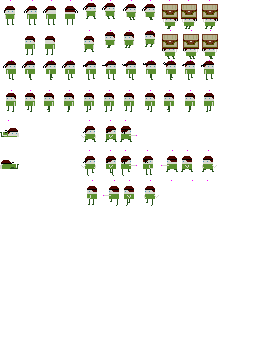
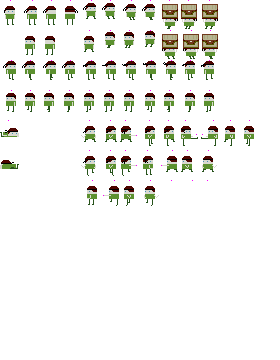
Jake's kick added

Changed region(s): [[0.5143, 0.3361, 0.9143, 0.3972]]

diff --git a/actor.py b/actor.py
@@ -27,6 +27,8 @@ class Actor(Entity):
         self.ai_input_attack = False
         self.ai_input_jump = False
         self.next_ranged_weapon_usage_counter = 0
+        self.previously_used_weapon = ''
+        self.force_use_previous_weapon = False
 
         self.acceleration = .5
         self.air_acceleration = .4
@@ -247,13 +249,16 @@ class Actor(Entity):
                 # print(f'{self.current_weapon["label"]=}')
                 if self.current_weapon['label'] == self.inventory["weapons"][all_weapons[uuid]]["item"]["label"]:
                     return
+                self.previously_used_weapon = self.current_weapon['label']
             self.body['right hand']['weapon'] = self.inventory['weapons'][all_weapons[uuid]]
             # self.body['right hand']['weapon'] = self.inventory['weapons'][all_weapons[0]]
         else:
             if self.current_weapon:
                 if self.current_weapon['label'] == self.inventory["weapons"][uuid]["item"]["label"]:
                     return
+                self.previously_used_weapon = self.current_weapon['label']
             self.body['right hand']['weapon'] = self.inventory['weapons'][uuid]
+
 
         self.current_weapon = self.body['right hand']['weapon']['item']
         # print('------------------------------')
@@ -485,11 +490,17 @@ class Actor(Entity):
             # self.movement_direction_inverter = 1
 
         elif new_action == 'attack':
-            if self.stats['stamina'] <= self.current_stamina_lost_per_attack \
-                    or self.stats['mana'] <= self.current_mana_lost_per_attack:
+            if self.stats['stamina'] <= self.current_stamina_lost_per_attack:
+                print(f'[state machine] NOT ENOUGH STAMINA')
+                if self.name == 'Jake':
+                    self.set_state('prepare kick')
                 return
-            if self.__state not in ('free', 'stand still', 'run right', 'run left', 'stand still', 'jump', 'crawl right', 'crawl left', \
-                                    'crouch', 'fly right', 'fly left'):
+            if self.stats['mana'] <= self.current_mana_lost_per_attack:
+                print(f'[state machine] NOT ENOUGH MANA')
+                return
+            if self.__state not in ('free', 'stand still', 'run right', 'run left',
+                                    'stand still', 'jump', 'crawl right', 'crawl left',
+                                    'crouch', 'fly right', 'fly left', 'turn right', 'turn left'):
                 return
             if self.__state in ('crawl left', 'crouch', 'crawl right'):
                 if self.look == 1:
@@ -515,6 +526,22 @@ class Actor(Entity):
         elif self.__state == 'carry stash left':  #
             self.speed = self.max_speed // 3
             self.look = -1
+        elif self.__state == 'prepare kick':                          # PREPARING kick ATTACK
+            self.activate_weapon('jake kick')
+            self.set_state('prepare attack')
+            self.force_use_previous_weapon = True
+            # if self.look == 1:
+            #     self.set_state('kick right')
+            # else:
+            #     self.set_state('kick left')
+            # self.set_state(self.current_weapon['attack animation'])
+            # self.stamina_reduce(self.current_stamina_lost_per_attack)
+            # self.mana_reduce(self.current_mana_lost_per_attack)
+            # self.frames_changing_threshold_modifier = self.current_weapon['animation speed modifier']
+            # self.set_current_animation()
+            # self.ignore_user_input = self.current_weapon['ignore user input']
+            # if self.is_stand_on_ground:
+            #     self.heading[0] = 0
         elif self.__state == 'prepare attack':                          # PREPARING ATTACK
             self.set_state(self.current_weapon['attack animation'])
             self.stamina_reduce(self.current_stamina_lost_per_attack)
@@ -542,9 +569,13 @@ class Actor(Entity):
             self.ignore_user_input = self.current_weapon['ignore user input']
             if self.is_stand_on_ground:
                 self.heading[0] = 0
-        elif self.__state in ('stab', 'cast', 'whip', 'whip crouch right', 'whip crouch left'):                          # ATTACKING IN PROCESS...
+        elif self.__state in ('stab', 'cast', 'whip', 'whip crouch right', 'whip crouch left',
+                              'kick'):                          # ATTACKING IN PROCESS...
             if self.animation_sequence_done:
                 self.ignore_user_input = False
+                if self.force_use_previous_weapon:
+                    self.force_use_previous_weapon = False
+                    self.activate_weapon(self.previously_used_weapon)
                 if self.__state in ('whip crouch right', 'whip crouch left'):
                     self.set_state('crouch')
                 else:
@@ -742,11 +773,6 @@ class Actor(Entity):
                 self.look = -1
                 self.heading[0] = -1
                 self.set_state('stand still')
-
-            # self.is_move_left = True
-            # self.look = -1
-            # print('jj')
-            # self.set_state('stand still')
         elif self.__state == 'turn right':                      # TURN RIGHT
             if self.look == -1 and self.speed > 0:  # Actor looks to the other side and runs.
                 # Switch off heading to force actor start reducing his speed and slow it down to zero.

diff --git a/actors_description.py b/actors_description.py
@@ -719,8 +719,8 @@ player_jake = {
             'hardness': 100
         },
     },
-    'max speed': 6,
-    'items': (whip,demon_2_close),
+    'max speed': 8,
+    'items': (whip,jake_kick),
     # 'items': (whip,fireball_staff,sword,kitchen_knife,),
     'animations': {
         'stand still right': {
@@ -1009,6 +1009,38 @@ player_jake = {
                 # -1: (-46, 36),
             },
             'sound': None, 'sound at frames': (1, 4), 'repeat from frame': 2
+        },
+        'kick right': {
+            'repeat': False, 'interruptable': True,
+            'sequence': (63,63,64,64,65,65,65,65), # 5 - 9
+            'speed': 1,
+            'activity at frames': {
+                4: {
+                    'sound': True,
+                    # 'move': 10,  # Slightly move actor forward,
+                    'demolisher': True
+                },
+            },
+            'repeat from frame': 0
+        },
+        'kick left': {
+            'repeat': False, 'interruptable': True,
+            'sequence': (68,68,67,67,66,66,66,66,),  # 0 - 4
+                         # 89, 89, 89, 89, 89,  # 5 - 9
+                         # 89, 89, 89, 88, 88,  # 10 - 14
+                         # 89, 89, 89, 89, 89,  # 15 - 19
+                         # 89, 89, 89, 89, 89,  # 20 - 24
+                         # 89, 89, 89, 88, 88),  # 25 - 29
+            # 'demolisher offset': (-46,36),
+            'activity at frames': {
+                4: {
+                    'sound': True,
+                    # 'move': 10, # Slightly move actor forward,
+                    'demolisher': True
+                },
+            },
+            'speed': 1,
+            'repeat from frame': 0
         },
         'cast right': {
             'repeat': False, 'interruptable': True,

diff --git a/weapons.py b/weapons.py
@@ -170,6 +170,43 @@ whip = {
 
 }
 
+jake_kick = {
+    'description': 'A powerful kick, called The Boot of Doom.',
+    'class': 'weapons',
+    'type': 'melee',
+    'label': 'jake kick',
+    'sprite': 'boot',
+    'sound': 'sound_swing_2',
+    'amount': 1,
+    'amount threshold': 1,
+    'amount decrease speed': 0,
+    'affects on': '',
+    'stamina consumption': .1,  # Stamina reduce multiplier. The greater, the more stamina will be lost by one weapon use.
+    'mana consumption': 0.,
+    'attack animation': 'kick',
+    'ignore user input': True,  # Steal the ability to control a character for a while.
+    'animation speed modifier': 1.,  # 0 < x < 1: speed animation up, x > 1: slow down.
+    'leave particles': False,
+    'attack type': 'pierce',
+    'droppable': False,
+    'need ammo': False,
+    'ammo': 0,
+    'reach': 170,
+    'demolishers': (
+        {
+            'rect': pygame.Rect(0, 0, 170, 5), 'flyer': False,
+            'demolisher sprite': 'jake kick demolisher',
+            'pierce': False, 'demolisher TTL': 8, 'speed': 0,
+            'damage': 10, 'static': True, 'damage reduce': 0,
+            'collides': False, 'gravity affected': False,
+            'bounce': False, 'bounce factor': 0.,
+            # 'aftermath': 'explode'
+            'aftermath': 'disappear'
+        },
+    ),
+
+}
+
 
 demon_2_mid = {
     'description': 'Demon 2 middle ranged weapon',

diff --git a/graphics.py b/graphics.py
@@ -315,6 +315,8 @@ load_single_frame(items, ((40,0,20,30),), 'kitchen knife demolisher', 3)
 load_single_frame(items, ((20,60,20,30),), 'short sword', 5)
 load_single_frame(items, ((20,90,20,30),), 'whip', 5)
 load_single_frame(items, ((40,90,80,30),), 'whip demolisher', 4)
+load_single_frame(items, ((20,150,20,30),), 'boot', 5)
+load_single_frame(items, ((40,150,20,30),), 'jake kick demolisher', 4)
 load_single_frame(items, ((40,120,40,30),), 'demon 2 claw demolisher', 5)
 load_single_frame(items, ((80,120,40,30),), 'demon 2 mid claw demolisher', 5)
 load_single_frame(items, ((0,60,20,30),), 'stash', 8)
